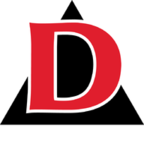
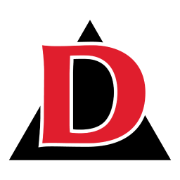
Build Services Page

Changed region(s): [[0.0, 0.0, 1.0, 0.9167]]

diff --git a/src/components/LocaleSwitcherSelect/LocaleSwitcherSelect.module.css b/src/components/LocaleSwitcherSelect/LocaleSwitcherSelect.module.css
@@ -12,23 +12,15 @@
   border-radius: 1000px;
   transition: all 0.2s ease-in-out;
 
-  /* Ensure sufficient color contrast */
-  @media (prefers-contrast: high) {
-    &:focus {
-      outline: 3px solid var(--color-text);
-      outline-offset: 1px;
-    }
-  }
-
   &:focus {
     color: var(--color-bg);
-    outline: 2px solid var(--color-text);
+    outline: 1px solid var(--color-text);
     outline-offset: 2px;
     background-color: var(--color-text);
   }
 
   &:focus-visible {
-    outline: 2px solid var(--color-text);
+    outline: 1px solid var(--color-text);
     outline-offset: 2px;
   }
 
@@ -43,11 +35,12 @@
   display: flex;
   gap: 0.75rem;
   align-items: center;
-  border: 1px solid var(--color-text);
+  border: 1px solid var(--divider);
   border-radius: 1000px;
   transition: all 0.2s ease-in-out;
 
-  &:hover {
+  &:hover,
+  &:focus-within {
     color: var(--color-bg);
     background-color: var(--color-text);
 
@@ -56,18 +49,11 @@
     }
   }
 
-  /* High contrast mode support */
-  @media (prefers-contrast: high) {
-    border-width: 2px;
-  }
-
   &:focus-within {
     border-color: var(--color-text);
-    box-shadow: 0 0 0 2px var(--color-text);
 
     @media (prefers-contrast: high) {
       border-width: 3px;
-      box-shadow: 0 0 0 1px var(--color-text);
     }
   }
 }

diff --git a/src/components/ProjectCarousel/ProjectCarousel.module.css b/src/components/ProjectCarousel/ProjectCarousel.module.css
@@ -14,28 +14,23 @@
   flex-direction: column;
   align-items: center;
   width: 100%;
-  max-width: 650px;
+  max-width: 100%;
   overflow: hidden;
 
   @media (min-width: 768px) {
     --project-carousel-navigation-size: 2.5rem;
-    --project-carousel-slide-width: 360px;
+    --project-carousel-slide-width: 350px;
     --project-carousel-gap: 1.5rem;
+    max-width: 600px;
   }
 }
-
-/* ProjectCarousel container query disabled - causing display issues */
-/* @container (min-width: 1000px) {
-  .projectCarousel {
-    --project-carousel-slide-width: 400px;
-    --project-carousel-gap: 2rem;
-  }
-} */
 
 .singleProject {
   display: flex;
   flex-direction: column;
   gap: var(--project-carousel-gap);
+  align-items: center;
+  justify-content: center;
   width: 100%;
 }
 
@@ -74,13 +69,13 @@
   &:global(.swiper-slide-prev) {
     pointer-events: none;
     opacity: 0.25;
-    transform: translateX(15%);
+    transform: translateX(10%);
   }
 
   &:global(.swiper-slide-next) {
     pointer-events: none;
     opacity: 0.25;
-    transform: translateX(-15%);
+    transform: translateX(-10%);
   }
 }
 

diff --git a/src/components/ServiceAccordion/ServiceAccordion.module.css b/src/components/ServiceAccordion/ServiceAccordion.module.css
@@ -3,19 +3,21 @@
   display: grid;
   gap: 2rem;
   grid-template-columns: 1fr;
-}
 
-@container (min-width: 1200px) {
-  .serviceAccordion {
+  @media (min-width: 900px) {
     grid-template-columns: 1fr 1fr;
-  }
 
-  .serviceAccordionContent {
-    grid-column: 1;
-  }
+    .serviceAccordionContent {
+      grid-column: 1;
+      max-width: none;
+    }
 
-  .serviceAccordionCarousel {
-    grid-column: 2;
+    .serviceAccordionCarousel {
+      display: flex;
+      grid-column: 2;
+      align-items: center;
+      justify-content: center;
+    }
   }
 }
 
@@ -57,6 +59,24 @@
 
 .serviceAccordionCarousel {
   width: 100%;
+  min-width: 0;
+}
+
+.serviceAccordionCarousel :global(.projectCarousel) {
+  width: 100%;
+  max-width: none;
+}
+
+.serviceAccordionCarousel :global(.singleProject) {
+  display: flex;
+  align-items: center;
+  justify-content: center;
+  width: 100%;
+}
+
+.serviceAccordionCarousel :global(.projectCard) {
+  width: 100%;
+  max-width: none;
 }
 
 .statValue {

diff --git a/src/components/Navigation/Navigation.tsx b/src/components/Navigation/Navigation.tsx
@@ -11,8 +11,8 @@ import type { NavigationType } from "src/contentful/getNavigation";
 import type { Page } from "src/contentful/getPages";
 import { useDOMCleanup, useIsBrowser } from "src/hooks/useIsBrowser";
 import { Link } from "src/i18n/routing";
-import DelmarvaLogo from "src/icons/delmarva-white-full-full-color-rgb.svg";
 import Menu from "src/icons/Menu.svg";
+import DelmarvaLogo from "src/logos/delmarva-white-full-cutout-full-color-rgb.svg";
 import { throttle } from "src/utils/throttle";
 
 interface NavigationProps {
@@ -224,7 +224,7 @@ export const Navigation = (props: NavigationProps) => {
               })}
               href={navigation.ctaButton.pageLink?.url ?? ""}
               label={navigation.ctaButton.text ?? ""}
-              variant="secondary"
+              variant="primary"
             />
           </div>
         ) : null}

diff --git a/src/components/Footer/Footer.module.css b/src/components/Footer/Footer.module.css
@@ -11,11 +11,8 @@
 }
 
 .footerContent {
-  --columns: 1;
-  --columns-md: 2;
-  --columns-lg: auto-fit;
   display: grid;
-  grid-template-columns: repeat(var(--columns, 1), 1fr);
+  grid-template-columns: 1fr;
   grid-column: 1 / -1;
   gap: var(--gap, 4rem);
   align-items: stretch;
@@ -47,8 +44,22 @@
   justify-content: flex-start;
   width: 100%;
 
-  &:last-child {
-    grid-column: span 2;
+  @media (min-width: 1000px) {
+    &:last-child {
+      grid-column: span 2;
+    }
+  }
+
+  &:first-of-type {
+    display: flex;
+    flex-flow: column nowrap;
+    gap: 1rem;
+    align-items: flex-start;
+    justify-content: flex-start;
+
+    svg {
+      max-width: 150px;
+    }
   }
 }
 
@@ -68,7 +79,7 @@
 }
 
 .footerLogo {
-  width: 200px;
+  width: 150px;
 }
 
 .footerLinks {

diff --git a/src/components/Footer/Footer.component.tsx b/src/components/Footer/Footer.component.tsx
@@ -4,8 +4,8 @@ import LocaleSwitcherSelect from "src/components/LocaleSwitcherSelect/LocaleSwit
 import { RichText } from "src/components/RichText/RichText.component";
 import type { FooterType } from "src/contentful/getFooter";
 import { Link } from "src/i18n/routing";
-import DelmarvaBadge from "src/icons/delmarva-red-badge-full-color-rgb.svg";
 import LinkedInIcon from "src/icons/linkedin.svg";
+import DelmarvaBadge from "src/logos/delmarva-white-outlined-badge-full-color-rgb.svg";
 import { parseCtaUrl } from "src/utils/urlHelpers";
 import styles from "./Footer.module.css";
 

diff --git a/src/components/Button/Button.module.css b/src/components/Button/Button.module.css
@@ -14,6 +14,7 @@
   outline: 1px solid transparent;
   outline-offset: 1px;
   background-color: var(--colors-red);
+  border: 1px solid transparent;
   border-radius: 1000px;
   transition: all 0.2s ease-in-out;
 
@@ -47,11 +48,12 @@
 
   &.secondary {
     color: var(--colors-text);
-    background-color: var(--colors-red);
+    background-color: var(--color-bg);
+    border-color: var(--colors-red);
 
     &:hover {
       color: var(--colors-text);
-      background-color: var(--colors-black);
+      background-color: var(--colors-red);
     }
   }
 }

diff --git a/src/components/Service/Service.component.tsx b/src/components/Service/Service.component.tsx
@@ -1,3 +1,4 @@
+import styles from "src/components/Service/Service.module.css";
 import { ServiceProvider } from "src/components/Service/ServiceProvider";
 import type { ServiceType } from "src/contentful/getServices";
 
@@ -15,7 +16,9 @@ export const ServiceComponent = (props: ServiceComponentProps) => {
 
   return (
     <ServiceProvider service={service}>
-      <div>{service.serviceName}</div>
+      <section className={styles.serviceHero}>
+        <h1>{service.serviceName}</h1>
+      </section>
     </ServiceProvider>
   );
 };

diff --git a/src/components/Navigation/MobileNavigation.component.tsx b/src/components/Navigation/MobileNavigation.component.tsx
@@ -3,7 +3,7 @@ import { Link } from "src/components/Link/Link.component";
 import styles from "src/components/Navigation/Navigation.module.css";
 import type { NavigationType } from "src/contentful/getNavigation";
 import Close from "src/icons/Close.svg";
-import DelmarvaLogo from "src/icons/delmarva-white-full-full-color-rgb.svg";
+import DelmarvaLogo from "src/logos/delmarva-white-full-cutout-full-color-rgb.svg";
 
 interface MobileNavigationDrawerProps {
   navigation: NavigationType;

diff --git a/src/components/Section/Section.component.tsx b/src/components/Section/Section.component.tsx
@@ -91,9 +91,11 @@ export const Section = async (props: SectionProps) => {
           {children}
         </div>
       ) : null}
-      <div className={styles.sectionEndCta}>
-        {cta ? <CTA cta={cta} /> : null}
-      </div>
+      {cta ? (
+        <div className={styles.sectionEndCta}>
+          <CTA cta={cta} />
+        </div>
+      ) : null}
       {showSectionSeparator ? (
         <div className={styles.sectionSeparator} />
       ) : null}

diff --git a/src/components/Section/Section.module.css b/src/components/Section/Section.module.css
@@ -141,6 +141,10 @@
     );
     background-position: center;
     background-size: var(--dot-space) var(--dot-space);
+
+    &.fullWidth {
+      padding-bottom: 2rem !important;
+    }
   }
 
   &.silverBg {
@@ -221,8 +225,13 @@
 
 .sectionEndCta {
   display: flex;
+  grid-column: 1 / -1;
   justify-content: center;
   margin-top: 2rem;
+
+  @media (min-width: 900px) {
+    margin-top: 4rem;
+  }
 }
 
 .sectionSeparator {

diff --git a/src/components/ServiceAccordion/ServiceAccordion.component.tsx b/src/components/ServiceAccordion/ServiceAccordion.component.tsx
@@ -221,7 +221,7 @@ export const ServiceAccordion = (props: ServiceAccordionProps) => {
           </dl>
           <div className={styles.serviceAccordionCta} ref={ctaRef}>
             <ButtonLink
-              arrow="Right-Up Arrow"
+              arrow="Right Arrow"
               data-tracking-click="service-accordion-cta"
               href={`/${SERVICES_PAGE_SLUG}/${slug}`}
               label={buttonText[locale]}
